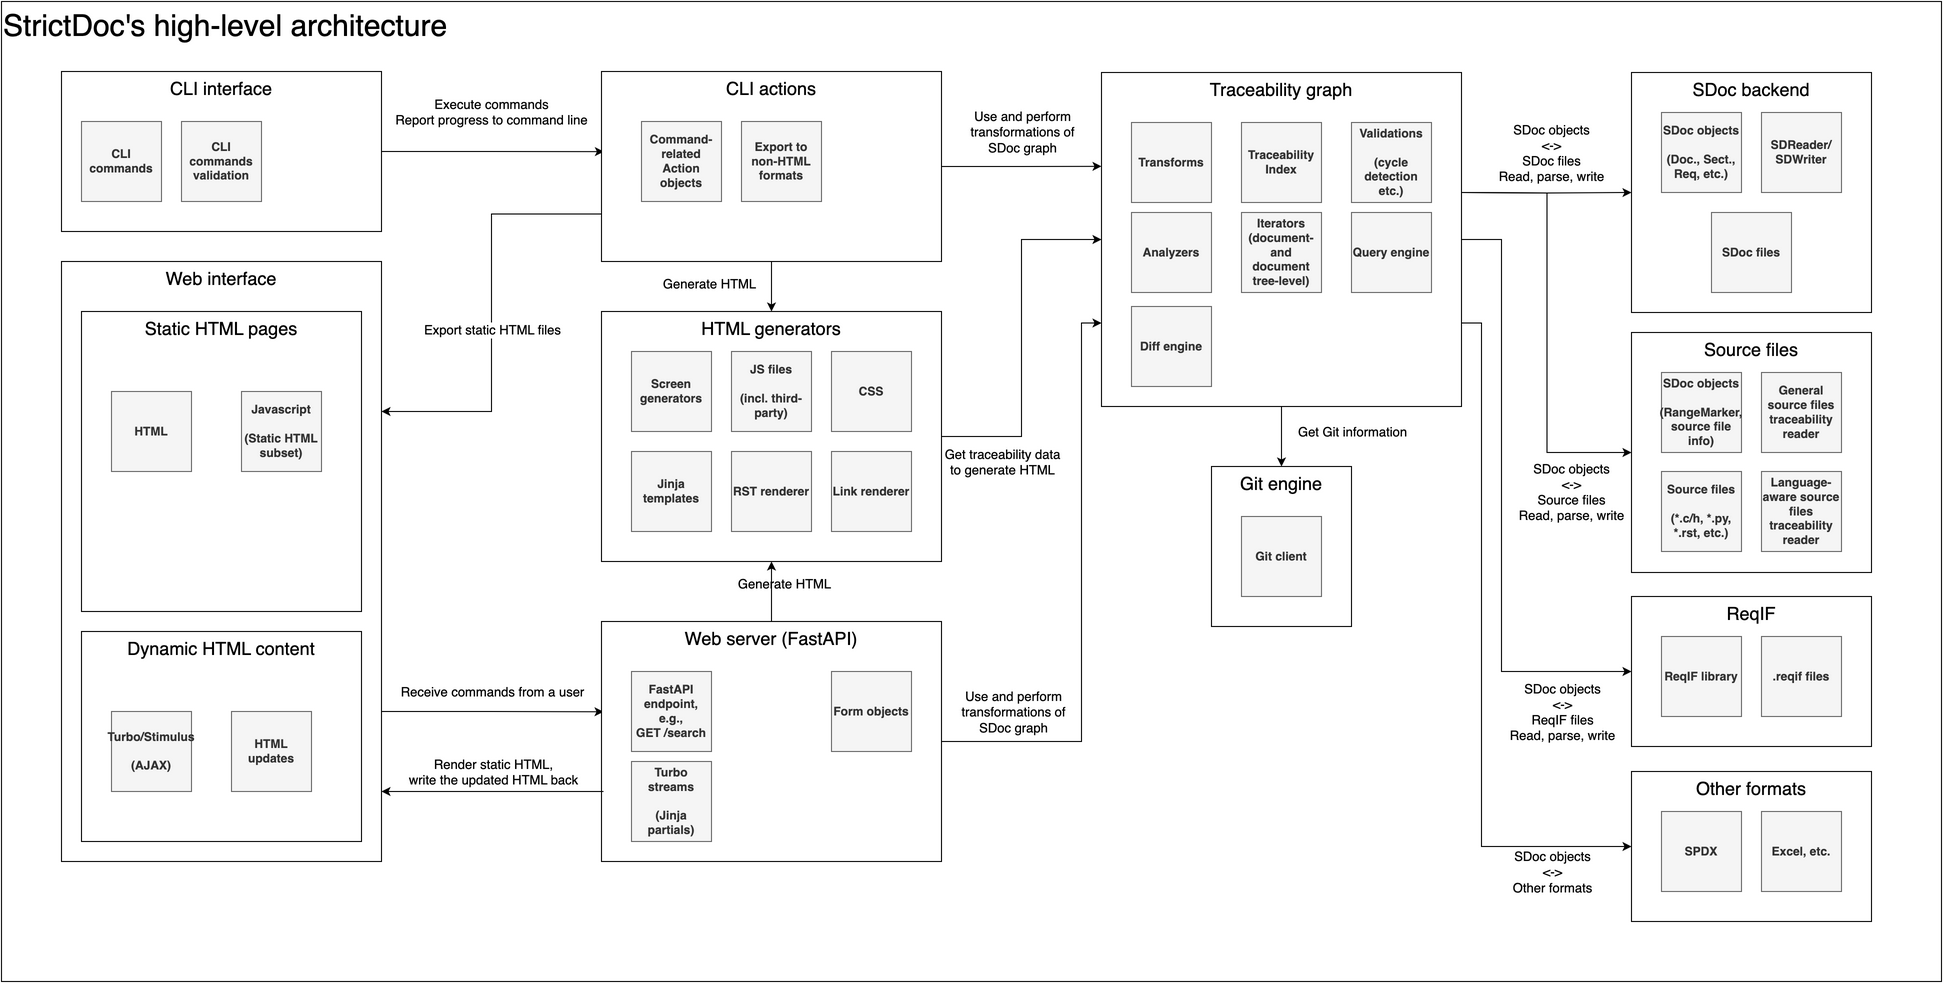
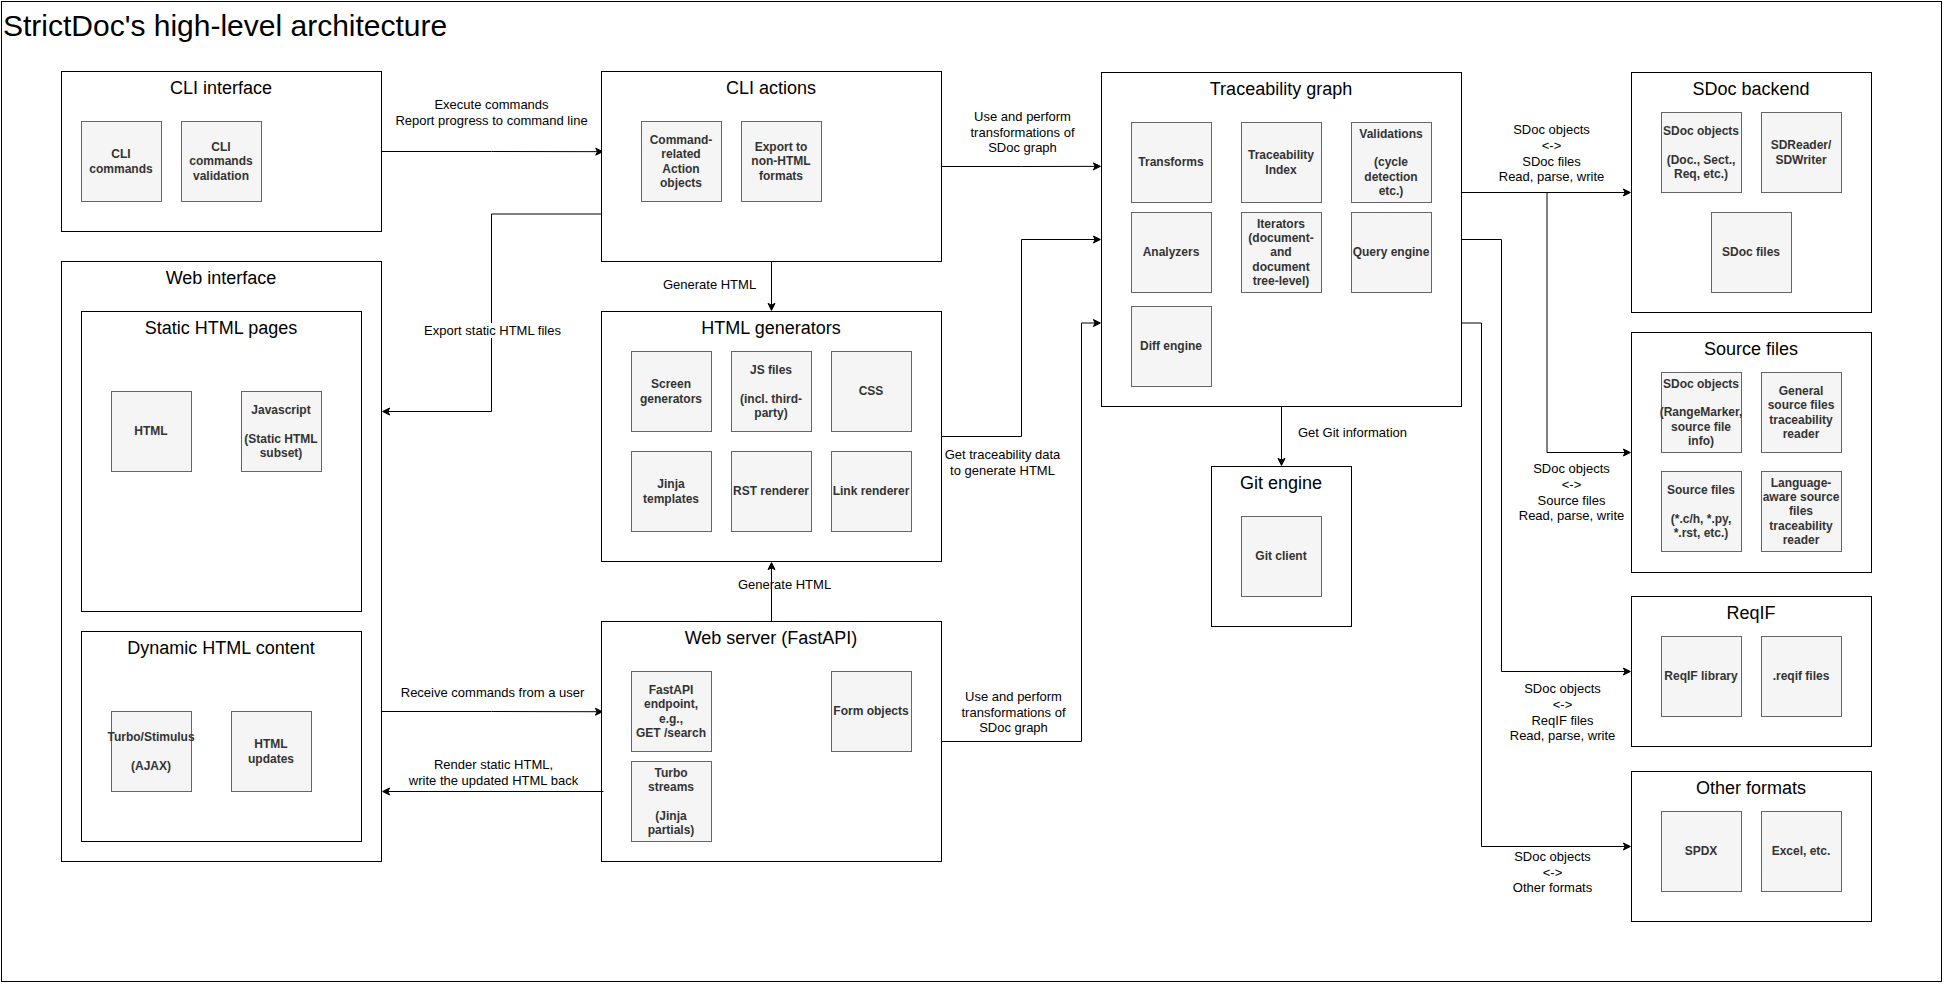
Merge pull request #2812 from strictdoc-project/stanislav/docs
release: bump version to 0.21.0

Pull request: release: bump version to 0.21.0

diff --git a/strictdoc/__init__.py b/strictdoc/__init__.py
@@ -1,6 +1,6 @@
 from strictdoc.core.environment import SDocRuntimeEnvironment
 
-__version__ = "0.20.0"
+__version__ = "0.21.0"
 
 
 environment = SDocRuntimeEnvironment(__file__)